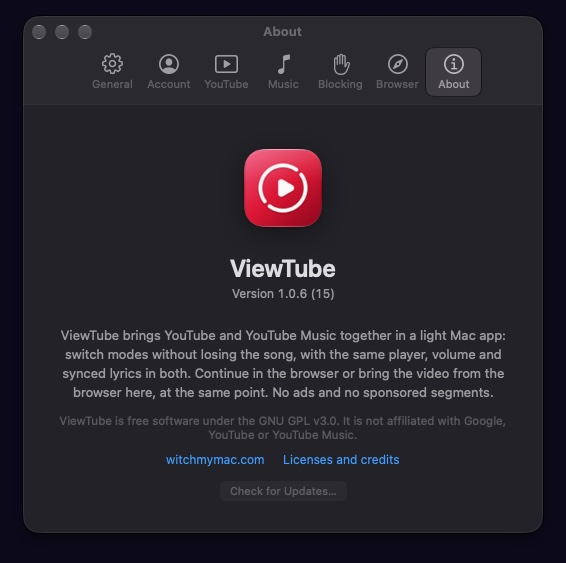
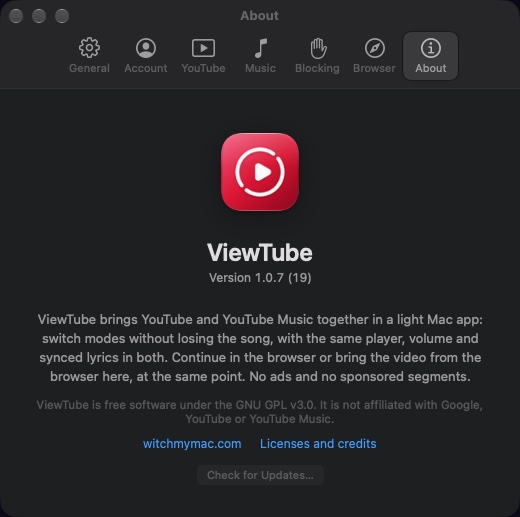
feat: new ViewTube screenshots (in-video player, Blender films, Josh Woodward)
- Retaken with ViewTube 1.0.7: in-video control card, new toolbar icons, English UI,
  signed out and muted. Films: Wing It!, Spring, Coffee Run and Caminandes 3 (Blender
  Studio, CC BY 4.0); music: "Release" by Josh Woodward (CC BY) with synced lyrics.
- Hero and home use the Wing It! watch page; new Music tab; narrow tab shows the stacked
  Music layout; Settings shots include the portrait zoom and hide-chat options.
- Updated sizes, captions, alts and credits with en/es/ru translations.

diff --git a/viewtube/strings.js b/viewtube/strings.js
@@ -9,7 +9,7 @@ window.WITCH_STRINGS = Object.freeze({
   "O YouTube e o YouTube Music num app nativo para o Mac. Acelere qualquer vídeo ou música até 3×, acompanhe a letra sincronizada até na tela cheia e troque de modo sem perder a faixa. Sem anúncios.": ["YouTube and YouTube Music in a native Mac app. Speed up any video or song to 3×, follow synced lyrics even in full screen, and switch modes without losing the track. No ads.", "YouTube y YouTube Music en una app nativa para Mac. Acelera cualquier video o canción hasta 3×, sigue la letra sincronizada incluso en pantalla completa y cambia de modo sin perder la pista. Sin anuncios.", "YouTube и YouTube Music в нативном приложении для Mac. Ускоряйте любое видео или песню до 3×, следите за синхронизированным текстом даже в полноэкранном режиме и переключайте режимы, не теряя трек. Без рекламы."],
   "macOS 14 Sonoma ou mais novo · Apple Silicon e Intel · Gratuito": ["macOS 14 Sonoma or later · Apple Silicon and Intel · Free", "macOS 14 Sonoma o posterior · Apple Silicon e Intel · Gratis", "macOS 14 Sonoma или новее · Apple Silicon и Intel · Бесплатно"],
   "Tela cheia imersiva do modo Music: a capa, o título e a letra sincronizada sobre a capa desfocada": ["Immersive full screen in Music mode: the cover, the title and the synced lyrics over the blurred cover", "Pantalla completa inmersiva del modo Music: la portada, el título y la letra sincronizada sobre la portada desenfocada", "Иммерсивный полноэкранный режим Music: обложка, название и синхронизированный текст на фоне размытой обложки"],
-  "Big Buck Bunny tocando a 3×, com o botão 3× na barra da janela": ["Big Buck Bunny playing at 3×, with the 3× button in the window’s toolbar", "Big Buck Bunny reproduciéndose a 3×, con el botón 3× en la barra de la ventana", "Big Buck Bunny на скорости 3× с кнопкой 3× на панели окна"],
+  "Coffee Run tocando a 3×, com o botão 3× na barra da janela": ["Coffee Run playing at 3×, with the 3× button in the window’s toolbar", "Coffee Run reproduciéndose a 3×, con el botón 3× en la barra de la ventana", "Coffee Run на скорости 3× с кнопкой 3× на панели окна"],
   "Mini player da barra de menus com a capa, o progresso e os controles": ["Menu bar mini player with the cover, progress and controls", "Mini reproductor de la barra de menús con la portada, el progreso y los controles", "Мини-плеер в строке меню с обложкой, прогрессом и кнопками"],
   "0,25–3×": ["0.25–3×", "0,25–3×", "0,25–3×"],
   "de velocidade, em 10 passos": ["speed, in 10 steps", "de velocidad, en 10 pasos", "скорость, 10 шагов"],
@@ -32,7 +32,7 @@ window.WITCH_STRINGS = Object.freeze({
   "Por atalho": ["From shortcuts", "Con atajos", "Через команды"],
   "nos Atalhos do macOS ou no Raycast.": ["in macOS Shortcuts or in Raycast.", "en Atajos de macOS o en Raycast.", "в Быстрых командах macOS или в Raycast."],
   "Transmissões ao vivo e anúncios ficam na velocidade normal.": ["Live streams and ads stay at normal speed.", "Las transmisiones en vivo y los anuncios se quedan en velocidad normal.", "Прямые трансляции и реклама идут с обычной скоростью."],
-  "Big Buck Bunny tocando a 3× no modo teatro": ["Big Buck Bunny playing at 3× in theater mode", "Big Buck Bunny reproduciéndose a 3× en modo teatro", "Big Buck Bunny на скорости 3× в режиме кинотеатра"],
+  "Coffee Run tocando a 3× no modo teatro": ["Coffee Run playing at 3× in theater mode", "Coffee Run reproduciéndose a 3× en modo teatro", "Coffee Run на скорости 3× в режиме кинотеатра"],
   "O botão da barra mostra a velocidade do modo atual.": ["The toolbar button shows the current mode’s speed.", "El botón de la barra muestra la velocidad del modo actual.", "Кнопка на панели показывает скорость текущего режима."],
   "Letras sincronizadas": ["Synced lyrics", "Letras sincronizadas", "Синхронизированные тексты"],
   "Cante junto, linha por linha.": ["Sing along, line by line.", "Canta junto, línea por línea.", "Подпевайте строка за строкой."],
@@ -45,7 +45,7 @@ window.WITCH_STRINGS = Object.freeze({
   ": uma linha longa demais diminui a fonte só naquela música, sem cortar.": [": a line that’s too long shrinks the font for that song only, without cutting it off.", ": una línea demasiado larga reduce la fuente solo en esa canción, sin cortarse.", ": если строка слишком длинная, шрифт уменьшается только для этой песни, и ничего не обрезается."],
   "No teatro e na janela estreita": ["In theater and narrow windows", "En el teatro y en la ventana estrecha", "В режиме кинотеатра и в узком окне"],
   ": a letra vira um bloco embaixo do player, no mesmo estilo.": [": the lyrics become a block under the player, in the same style.", ": la letra se convierte en un bloque debajo del reproductor, con el mismo estilo.", ": текст становится блоком под плеером в том же стиле."],
-  "Modo Music com a capa e o cartão de controles": ["Music mode with the cover and the control card", "Modo Music con la portada y la tarjeta de controles", "Режим Music с обложкой и карточкой управления"],
+  "Modo Music com a capa e o cartão de controles dentro do player": ["Music mode with the cover and the control card inside the player", "Modo Music con la portada y la tarjeta de controles dentro del reproductor", "Режим Music: обложка и карточка управления прямо в плеере"],
   "Coluna da letra com a linha atual acesa": ["Lyrics column with the current line lit up", "Columna de la letra con la línea actual iluminada", "Колонка с текстом, текущая строка подсвечена"],
   "Tela cheia imersiva": ["Immersive full screen", "Pantalla completa inmersiva", "Иммерсивный полный экран"],
   "Só a capa, a letra e a música.": ["Just the cover, the lyrics and the music.", "Solo la portada, la letra y la música.", "Только обложка, текст и музыка."],
@@ -67,14 +67,14 @@ window.WITCH_STRINGS = Object.freeze({
   "Teatro": ["Theater", "Teatro", "Кинотеатр"],
   "Janela estreita": ["Narrow window", "Ventana estrecha", "Узкое окно"],
   "Página do vídeo com as recomendações numa coluna fixa à direita": ["Watch page with the recommendations in a fixed column on the right", "Página del video con las recomendaciones en una columna fija a la derecha", "Страница видео с рекомендациями в закреплённой колонке справа"],
-  "Recomendações fixas à direita e descrição, comentários e relacionados em abas sob o player.": ["Recommendations fixed on the right, and description, comments and related videos in tabs under the player.", "Recomendaciones fijas a la derecha, y descripción, comentarios y relacionados en pestañas bajo el reproductor.", "Рекомендации закреплены справа, а описание, комментарии и похожие видео — во вкладках под плеером."],
+  "O cartão de controles aparece dentro do vídeo ao passar o mouse. As recomendações ficam fixas à direita e a descrição, os comentários e os relacionados, em abas sob o player.": ["The control card appears inside the video when you hover over it. Recommendations stay fixed on the right, and the description, comments and related videos sit in tabs under the player.", "La tarjeta de controles aparece dentro del video al pasar el ratón. Las recomendaciones quedan fijas a la derecha y la descripción, los comentarios y los relacionados, en pestañas bajo el reproductor.", "Карточка управления появляется прямо на видео при наведении мыши. Рекомендации закреплены справа, а описание, комментарии и похожие видео — во вкладках под плеером."],
   "Modo teatro: o vídeo ocupa a largura da janela": ["Theater mode: the video fills the window’s width", "Modo teatro: el video ocupa el ancho de la ventana", "Режим кинотеатра: видео на всю ширину окна"],
-  "Teatro: o vídeo na largura toda, com o mesmo cartão de controles embaixo.": ["Theater: the video at full width, with the same control card below.", "Teatro: el video a todo lo ancho, con la misma tarjeta de controles debajo.", "Кинотеатр: видео на всю ширину, под ним та же карточка управления."],
+  "Teatro: o vídeo na largura toda, com o mesmo cartão de controles dentro dele.": ["Theater: the video at full width, with the same control card inside it.", "Teatro: el video a todo lo ancho, con la misma tarjeta de controles dentro de él.", "Кинотеатр: видео на всю ширину, с той же карточкой управления прямо на нём."],
   "Janela estreita: o player em cima, ocupando a largura": ["Narrow window: the player on top, at full width", "Ventana estrecha: el reproductor arriba, a todo lo ancho", "Узкое окно: плеер сверху на всю ширину"],
   "Abaixo de 1024 px tudo se empilha: o player em cima, o \"A seguir\" num carrossel que dá para arrastar e as abas embaixo.": ["Below 1024 px everything stacks: the player on top, \"Up next\" in a carousel you can drag, and the tabs below.", "Por debajo de 1024 px todo se apila: el reproductor arriba, \"A continuación\" en un carrusel que se puede arrastrar y las pestañas abajo.", "Уже 1024 px всё выстраивается столбиком: плеер сверху, «Далее» — в карусели, которую можно перетаскивать, вкладки — внизу."],
   "Um player para os dois": ["One player for both", "Un reproductor para los dos", "Один плеер для обоих"],
   "Os mesmos controles nos dois modos.": ["The same controls in both modes.", "Los mismos controles en los dos modos.", "Одинаковые кнопки в обоих режимах."],
-  "O mesmo cartão de controles no YouTube e no Music: opções à esquerda, reprodução no meio e volume à direita. Volume, intensidade do som e qualidade valem para os dois modos.": ["The same control card in YouTube and Music: options on the left, playback in the middle and volume on the right. Volume, loudness and quality apply to both modes.", "La misma tarjeta de controles en YouTube y en Music: opciones a la izquierda, reproducción en el centro y volumen a la derecha. Volumen, intensidad del sonido y calidad valen para los dos modos.", "Одна и та же карточка управления в YouTube и Music: опции слева, воспроизведение в центре, громкость справа. Громкость, уровень звука и качество общие для обоих режимов."],
+  "O mesmo cartão de controles no YouTube e no Music, dentro do próprio vídeo: aparece ao passar o mouse e some sozinho. Opções à esquerda, reprodução no meio e volume à direita. Volume, intensidade do som e qualidade valem para os dois modos.": ["The same control card in YouTube and Music, right inside the video: it appears when you hover and hides on its own. Options on the left, playback in the middle and volume on the right. Volume, loudness and quality apply to both modes.", "La misma tarjeta de controles en YouTube y en Music, dentro del propio video: aparece al pasar el ratón y se oculta sola. Opciones a la izquierda, reproducción en el centro y volumen a la derecha. Volumen, intensidad del sonido y calidad valen para los dos modos.", "Одна и та же карточка управления в YouTube и Music — прямо на видео: появляется при наведении мыши и сама скрывается. Опции слева, воспроизведение в центре, громкость справа. Громкость, уровень звука и качество общие для обоих режимов."],
   "Mesma intensidade": ["The same loudness", "La misma intensidad", "Одинаковая громкость"],
   ": o app leva as duas páginas a −14 LUFS, e uma troca de modo não muda o volume.": [": the app brings both pages to −14 LUFS, so switching modes doesn’t change the volume.", ": la app lleva las dos páginas a −14 LUFS, y cambiar de modo no cambia el volumen.", ": приложение приводит обе страницы к −14 LUFS, поэтому смена режима не меняет громкость."],
   "Qualidade escolhida": ["Your chosen quality", "La calidad elegida", "Выбранное качество"],
@@ -105,9 +105,9 @@ window.WITCH_STRINGS = Object.freeze({
   "Navegador": ["Browser", "Navegador", "Браузер"],
   "Sobre": ["About", "Acerca de", "О программе"],
   "Ajustes, aba Geral": ["Settings, General tab", "Ajustes, pestaña General", "Настройки, вкладка «Основные»"],
-  "Abrir no último modo usado e retomar no mesmo ponto, barra compacta ou maior, continuar tocando com a janela fechada, mini player na barra de menus, qualidade do vídeo, teatro, retrato na tela cheia e interface limpa.": ["Open in the last mode used and resume at the same point, a compact or larger toolbar, keep playing with the window closed, the menu bar mini player, video quality, theater, portrait in full screen and a clean interface.", "Abrir en el último modo usado y retomar en el mismo punto, barra compacta o más grande, seguir sonando con la ventana cerrada, mini reproductor en la barra de menús, calidad del video, teatro, retrato en pantalla completa e interfaz limpia.", "Открытие в последнем режиме и продолжение с того же места, компактная или крупная панель, воспроизведение с закрытым окном, мини-плеер в строке меню, качество видео, кинотеатр, портрет в полноэкранном режиме и чистый интерфейс."],
-  "Ajustes, aba YouTube, com a velocidade em 2×": ["Settings, YouTube tab, with the speed at 2×", "Ajustes, pestaña YouTube, con la velocidad en 2×", "Настройки, вкладка YouTube, скорость 2×"],
-  "A velocidade de todo vídeo no modo YouTube, de 0,25× a 3×.": ["The speed for every video in YouTube mode, from 0.25× to 3×.", "La velocidad de cada video en el modo YouTube, de 0,25× a 3×.", "Скорость всех видео в режиме YouTube — от 0,25× до 3×."],
+  "Abrir no último modo usado e retomar no mesmo ponto, barra compacta ou maior, continuar tocando com a janela fechada, mini player na barra de menus, qualidade do vídeo, teatro, retrato na tela cheia com zoom e interface limpa.": ["Open in the last mode used and resume at the same point, a compact or larger toolbar, keep playing with the window closed, the menu bar mini player, video quality, theater, portrait in full screen with zoom and a clean interface.", "Abrir en el último modo usado y retomar en el mismo punto, barra compacta o más grande, seguir sonando con la ventana cerrada, mini reproductor en la barra de menús, calidad del video, teatro, retrato en pantalla completa con zoom e interfaz limpia.", "Открытие в последнем режиме и продолжение с того же места, компактная или крупная панель, воспроизведение с закрытым окном, мини-плеер в строке меню, качество видео, кинотеатр, портрет в полноэкранном режиме с масштабом и чистый интерфейс."],
+  "Ajustes, aba YouTube": ["Settings, YouTube tab", "Ajustes, pestaña YouTube", "Настройки, вкладка YouTube"],
+  "A velocidade de todo vídeo no modo YouTube, de 0,25× a 3×, e o chat ao vivo escondido na tela cheia.": ["The speed for every video in YouTube mode, from 0.25× to 3×, and the live chat hidden in full screen.", "La velocidad de cada video en modo YouTube, de 0,25× a 3×, y el chat en vivo oculto en pantalla completa.", "Скорость всех видео в режиме YouTube, от 0,25× до 3×, и скрытый чат трансляций в полноэкранном режиме."],
   "Ajustes, aba Music": ["Settings, Music tab", "Ajustes, pestaña Music", "Настройки, вкладка Music"],
   "A velocidade das músicas, o início personalizado (suas mais ouvidas, sucessos dos seus artistas e sugestões, só músicas), o modo Música, as letras sincronizadas e pular trechos sem música nos clipes.": ["Song speed, the personalized home (your most played, hits from your artists and suggestions, songs only), Song mode, synced lyrics and skipping non-music parts in music videos.", "La velocidad de las canciones, el inicio personalizado (lo más escuchado, éxitos de tus artistas y sugerencias, solo canciones), el modo Canción, las letras sincronizadas y saltar fragmentos sin música en los videoclips.", "Скорость песен, персональная главная (ваше самое прослушиваемое, хиты ваших исполнителей и рекомендации — только песни), режим «Песня», синхронизированные тексты и пропуск фрагментов без музыки в клипах."],
   "Ajustes, aba Bloqueios, com as categorias do SponsorBlock": ["Settings, Blocking tab, with the SponsorBlock categories", "Ajustes, pestaña Bloqueos, con las categorías de SponsorBlock", "Настройки, вкладка «Блокировка» с категориями SponsorBlock"],
@@ -147,5 +147,7 @@ window.WITCH_STRINGS = Object.freeze({
   "Aviso": ["Notice", "Aviso", "Примечание"],
   "Não é afiliado ao Google nem ao YouTube.": ["Not affiliated with Google or YouTube.", "No está afiliado a Google ni a YouTube.", "Не связано с Google и YouTube."],
   "Créditos das capturas": ["Screenshot credits", "Créditos de las capturas", "Источники скриншотов"],
-  "Big Buck Bunny e Cosmos Laundromat: Blender Foundation, CC BY. Música: “It’s a Long Way to Tipperary”, John McCormack, gravação de 1914, com letra de 1912 (domínio público). Áudio da janela estreita: gravação da Musopen. Capturas feitas sem conta e sem som.": ["Big Buck Bunny and Cosmos Laundromat: Blender Foundation, CC BY. Music: “It’s a Long Way to Tipperary”, John McCormack, 1914 recording, with 1912 lyrics (public domain). Narrow-window audio: Musopen recording. Screenshots taken signed out and muted.", "Big Buck Bunny y Cosmos Laundromat: Blender Foundation, CC BY. Música: “It’s a Long Way to Tipperary”, John McCormack, grabación de 1914, con letra de 1912 (dominio público). Audio de la ventana estrecha: grabación de Musopen. Capturas hechas sin cuenta y sin sonido.", "Big Buck Bunny и Cosmos Laundromat: Blender Foundation, CC BY. Музыка: «It’s a Long Way to Tipperary», Джон Маккормак, запись 1914 года, текст 1912 года (общественное достояние). Звук в узком окне: запись Musopen. Скриншоты сделаны без входа в аккаунт и без звука."],
+  "Filmes: Wing It!, Spring, Coffee Run e Caminandes 3: Llamigos, da Blender Studio, CC BY 4.0; as miniaturas na coluna de sugestões também são filmes abertos da Blender. Música: “Release”, de Josh Woodward (álbum Addressed to the Stars), CC BY, com a letra sincronizada que vem do próprio YouTube Music. Capturas feitas sem conta e sem som.": ["Films: Wing It!, Spring, Coffee Run and Caminandes 3: Llamigos by Blender Studio, CC BY 4.0; the thumbnails in the suggestions column are Blender open movies too. Music: “Release” by Josh Woodward (album Addressed to the Stars), CC BY, with the synced lyrics provided by YouTube Music itself. Screenshots taken signed out and muted.", "Películas: Wing It!, Spring, Coffee Run y Caminandes 3: Llamigos, de Blender Studio, CC BY 4.0; las miniaturas de la columna de sugerencias también son películas abiertas de Blender. Música: “Release”, de Josh Woodward (álbum Addressed to the Stars), CC BY, con la letra sincronizada del propio YouTube Music. Capturas hechas sin cuenta y sin sonido.", "Фильмы: Wing It!, Spring, Coffee Run и Caminandes 3: Llamigos от Blender Studio, CC BY 4.0; миниатюры в колонке рекомендаций — тоже открытые фильмы Blender. Музыка: «Release», Джош Вудворд (альбом Addressed to the Stars), CC BY, с синхронизированным текстом из самого YouTube Music. Скриншоты сделаны без входа в аккаунт и без звука."],
+  "Modo Music com a capa, a fila e a letra sincronizada numa coluna à direita": ["Music mode with the cover, the queue and synced lyrics in a column on the right", "Modo Music con la portada, la cola y la letra sincronizada en una columna a la derecha", "Режим Music: обложка, очередь и синхронизированный текст в колонке справа"],
+  "Music: a capa com o cartão dentro dela, a fila em grade e a letra sincronizada na coluna da direita.": ["Music: the cover with the card inside it, the queue in a grid and the synced lyrics in the right column.", "Music: la portada con la tarjeta dentro, la cola en cuadrícula y la letra sincronizada en la columna derecha.", "Music: обложка с карточкой управления, очередь сеткой и синхронизированный текст в правой колонке."],
 });

diff --git a/viewtube/index.html b/viewtube/index.html
@@ -9,7 +9,7 @@
 <meta property="og:description" content="YouTube e YouTube Music num app nativo para Mac: troca de modo na mesma faixa, letras sincronizadas e sem anúncios. Gratuito.">
 <meta property="og:type" content="website">
 <meta property="og:url" content="https://witchmymac.com/viewtube/">
-<meta property="og:image" content="https://witchmymac.com/assets/shots/viewtube/immersive.jpg">
+<meta property="og:image" content="https://witchmymac.com/assets/shots/viewtube/youtube-watch.jpg">
 <meta name="twitter:card" content="summary_large_image">
 <meta name="theme-color" content="#0b0a14">
 <link rel="icon" href="../assets/icons/favicon.png" type="image/png">
@@ -66,9 +66,8 @@
     <p class="req"><span data-version="viewtube" data-no-i18n></span> macOS 14 Sonoma ou mais novo · Apple Silicon e Intel · Gratuito</p>
 
     <div class="wu-stage vt-stage">
-      <figure class="wu-main"><button class="shot" type="button"><img src="../assets/shots/viewtube/immersive.jpg?v=202610281200" alt="Tela cheia imersiva do modo Music: a capa, o título e a letra sincronizada sobre a capa desfocada" width="1080" height="959"></button></figure>
-      <figure class="wu-float vt-float-speed"><button class="shot" type="button"><img src="../assets/shots/viewtube/speed-3x.jpg?v=202610281200" alt="Big Buck Bunny tocando a 3×, com o botão 3× na barra da janela" width="1080" height="645"></button></figure>
-      <figure class="wu-float vt-float-mini"><button class="shot" type="button"><img src="../assets/shots/viewtube/miniplayer.jpg?v=202610281200" alt="Mini player da barra de menus com a capa, o progresso e os controles" width="350" height="285"></button></figure>
+      <figure class="wu-main"><button class="shot" type="button"><img src="../assets/shots/viewtube/youtube-watch.jpg?v=202610261100" alt="Wing It! tocando no ViewTube, com o cartão de controles dentro do vídeo" width="1440" height="900"></button></figure>
+      <figure class="wu-float vt-float-mini"><button class="shot" type="button"><img src="../assets/shots/viewtube/miniplayer.jpg?v=202610261100" alt="Mini player da barra de menus com a capa, o progresso e os controles" width="304" height="239"></button></figure>
     </div>
 
     <div class="wu-stats">
@@ -97,11 +96,11 @@
         <p class="vt-note">Transmissões ao vivo e anúncios ficam na velocidade normal.</p>
       </div>
       <div class="wu-media vt-speed">
-        <figure><button class="shot" type="button"><img src="../assets/shots/viewtube/speed-3x.jpg?v=202610281200" alt="Big Buck Bunny tocando a 3× no modo teatro" loading="lazy" width="1080" height="645"></button></figure>
+        <figure><button class="shot" type="button"><img src="../assets/shots/viewtube/speed-3x.jpg?v=202610261100" alt="Coffee Run tocando a 3× no modo teatro" loading="lazy" width="1200" height="760"></button></figure>
         <div class="vt-pills" aria-hidden="true">
-          <img src="../assets/shots/viewtube/tb-1x.jpg?v=202610281200" alt="" loading="lazy" width="120" height="41">
-          <img src="../assets/shots/viewtube/tb-2x.jpg?v=202610281200" alt="" loading="lazy" width="120" height="41">
-          <img src="../assets/shots/viewtube/tb-3x.jpg?v=202610281200" alt="" loading="lazy" width="120" height="41">
+          <img src="../assets/shots/viewtube/tb-1x.jpg?v=202610261100" alt="" loading="lazy" width="120" height="41">
+          <img src="../assets/shots/viewtube/tb-2x.jpg?v=202610261100" alt="" loading="lazy" width="120" height="41">
+          <img src="../assets/shots/viewtube/tb-3x.jpg?v=202610261100" alt="" loading="lazy" width="120" height="41">
         </div>
         <p class="wu-cap">O botão da barra mostra a velocidade do modo atual.</p>
       </div>
@@ -123,8 +122,8 @@
         </ul>
       </div>
       <div class="wu-media vt-lyrics">
-        <figure class="vt-lyrics-cover"><button class="shot" type="button"><img src="../assets/shots/viewtube/music-cover.jpg?v=202610281200" alt="Modo Music com a capa e o cartão de controles" loading="lazy" width="730" height="570"></button></figure>
-        <figure class="vt-lyrics-col"><button class="shot" type="button"><img src="../assets/shots/viewtube/lyrics-column.jpg?v=202610281200" alt="Coluna da letra com a linha atual acesa" loading="lazy" width="335" height="640"></button></figure>
+        <figure class="vt-lyrics-cover"><button class="shot" type="button"><img src="../assets/shots/viewtube/music-cover.jpg?v=202610261100" alt="Modo Music com a capa e o cartão de controles dentro do player" loading="lazy" width="983" height="553"></button></figure>
+        <figure class="vt-lyrics-col"><button class="shot" type="button"><img src="../assets/shots/viewtube/lyrics-column.jpg?v=202610261100" alt="Coluna da letra com a linha atual acesa" loading="lazy" width="380" height="712"></button></figure>
       </div>
     </div>
   </section>
@@ -136,9 +135,9 @@
       <h2>Só a capa, a letra e a música.</h2>
       <p>Com a opção “Retrato na tela cheia” ligada, o botão de tela cheia do Music abre uma tela própria: a capa grande, o título, o artista e a letra sincronizada, sobre a própria capa desfocada, que desliza devagar ao fundo.</p>
     </div>
-    <figure class="vt-immersive"><button class="shot" type="button"><img src="../assets/shots/viewtube/immersive.jpg?v=202610281200" alt="Tela cheia imersiva com a linha atual da letra acesa" loading="lazy" width="1080" height="959"></button></figure>
+    <figure class="vt-immersive"><button class="shot" type="button"><img src="../assets/shots/viewtube/immersive.jpg?v=202610261100" alt="Tela cheia imersiva com a linha atual da letra acesa" loading="lazy" width="1280" height="843"></button></figure>
     <div class="vt-imm-notes">
-      <figure><button class="shot" type="button"><img src="../assets/shots/viewtube/immersive-player.jpg?v=202610281200" alt="Pílula de vidro com progresso, controles, avaliação e volume" loading="lazy" width="660" height="124"></button></figure>
+      <figure><button class="shot" type="button"><img src="../assets/shots/viewtube/immersive-player.jpg?v=202610261100" alt="Pílula de vidro com progresso, controles, avaliação e volume" loading="lazy" width="656" height="120"></button></figure>
       <ul class="wu-list">
         <li><b>Player de vidro</b> com progresso, Música | Vídeo, aleatório, repetir, avaliação e volume. Some depois de 3 s sem mexer o mouse, junto com o cursor.</li>
         <li><b>Clique na capa</b> para tocar ou pausar. Esc sai.</li>
@@ -155,17 +154,19 @@
       <p>O YouTube e o YouTube Music são o mesmo catálogo em duas abas que não conversam. No ViewTube, um clique no seletor leva o que está tocando para o outro modo, no mesmo segundo, tocando ou pausado. As duas páginas ficam vivas o tempo todo, então a troca é instantânea.</p>
     </div>
     <div class="vt-switch">
-      <figure><button class="shot" type="button"><img src="../assets/shots/viewtube/crop-switch.jpg?v=202610261800" alt="Seletor YouTube e Music no topo da janela" loading="lazy" width="520" height="41"></button><figcaption>O seletor no topo da janela, ou ⇧⌘M.</figcaption></figure>
+      <figure><button class="shot" type="button"><img src="../assets/shots/viewtube/crop-switch.jpg?v=202610261100" alt="Seletor YouTube e Music no topo da janela" loading="lazy" width="520" height="41"></button><figcaption>O seletor no topo da janela, ou ⇧⌘M.</figcaption></figure>
     </div>
     <div class="wu-tabset">
       <div class="wu-tabs" role="tablist" aria-label="Modos">
         <button type="button" role="tab" id="t-yt" aria-controls="p-yt">YouTube</button>
+        <button type="button" role="tab" id="t-music" aria-controls="p-music">Music</button>
         <button type="button" role="tab" id="t-theater" aria-controls="p-theater">Teatro</button>
         <button type="button" role="tab" id="t-narrow" aria-controls="p-narrow">Janela estreita</button>
       </div>
-      <div class="wu-panel" role="tabpanel" id="p-yt" aria-labelledby="t-yt"><figure><button class="shot" type="button"><img src="../assets/shots/viewtube/youtube-watch.jpg?v=202610261800" alt="Página do vídeo com as recomendações numa coluna fixa à direita" loading="lazy" width="1280" height="772"></button><figcaption class="wu-cap">Recomendações fixas à direita e descrição, comentários e relacionados em abas sob o player.</figcaption></figure></div>
-      <div class="wu-panel" role="tabpanel" id="p-theater" aria-labelledby="t-theater" hidden><figure><button class="shot" type="button"><img src="../assets/shots/viewtube/youtube-theater.jpg?v=202610261800" alt="Modo teatro: o vídeo ocupa a largura da janela" loading="lazy" width="1280" height="800"></button><figcaption class="wu-cap">Teatro: o vídeo na largura toda, com o mesmo cartão de controles embaixo.</figcaption></figure></div>
-      <div class="wu-panel" role="tabpanel" id="p-narrow" aria-labelledby="t-narrow" hidden><figure style="max-width:760px;margin:0 auto"><button class="shot" type="button"><img src="../assets/shots/viewtube/youtube-narrow.jpg?v=202610261800" alt="Janela estreita: o player em cima, ocupando a largura" loading="lazy" width="900" height="712"></button><figcaption class="wu-cap">Abaixo de 1024 px tudo se empilha: o player em cima, o "A seguir" num carrossel que dá para arrastar e as abas embaixo.</figcaption></figure></div>
+      <div class="wu-panel" role="tabpanel" id="p-yt" aria-labelledby="t-yt"><figure><button class="shot" type="button"><img src="../assets/shots/viewtube/youtube-watch.jpg?v=202610261100" alt="Página do vídeo com as recomendações numa coluna fixa à direita" loading="lazy" width="1440" height="900"></button><figcaption class="wu-cap">O cartão de controles aparece dentro do vídeo ao passar o mouse. As recomendações ficam fixas à direita e a descrição, os comentários e os relacionados, em abas sob o player.</figcaption></figure></div>
+      <div class="wu-panel" role="tabpanel" id="p-music" aria-labelledby="t-music" hidden><figure><button class="shot" type="button"><img src="../assets/shots/viewtube/music-wide.jpg?v=202610261100" alt="Modo Music com a capa, a fila e a letra sincronizada numa coluna à direita" loading="lazy" width="1440" height="900"></button><figcaption class="wu-cap">Music: a capa com o cartão dentro dela, a fila em grade e a letra sincronizada na coluna da direita.</figcaption></figure></div>
+      <div class="wu-panel" role="tabpanel" id="p-theater" aria-labelledby="t-theater" hidden><figure><button class="shot" type="button"><img src="../assets/shots/viewtube/youtube-theater.jpg?v=202610261100" alt="Modo teatro: o vídeo ocupa a largura da janela" loading="lazy" width="1440" height="900"></button><figcaption class="wu-cap">Teatro: o vídeo na largura toda, com o mesmo cartão de controles dentro dele.</figcaption></figure></div>
+      <div class="wu-panel" role="tabpanel" id="p-narrow" aria-labelledby="t-narrow" hidden><figure style="max-width:760px;margin:0 auto"><button class="shot" type="button"><img src="../assets/shots/viewtube/music-narrow.jpg?v=202610261100" alt="Janela estreita: o player em cima, ocupando a largura" loading="lazy" width="900" height="760"></button><figcaption class="wu-cap">Abaixo de 1024 px tudo se empilha: o player em cima, o "A seguir" num carrossel que dá para arrastar e as abas embaixo.</figcaption></figure></div>
     </div>
   </section>
 
@@ -175,7 +176,7 @@
       <div class="wu-copy">
         <p class="wu-kicker">Um player para os dois</p>
         <h2>Os mesmos controles nos dois modos.</h2>
-        <p>O mesmo cartão de controles no YouTube e no Music: opções à esquerda, reprodução no meio e volume à direita. Volume, intensidade do som e qualidade valem para os dois modos.</p>
+        <p>O mesmo cartão de controles no YouTube e no Music, dentro do próprio vídeo: aparece ao passar o mouse e some sozinho. Opções à esquerda, reprodução no meio e volume à direita. Volume, intensidade do som e qualidade valem para os dois modos.</p>
         <ul class="wu-list">
           <li><b>Mesma intensidade</b>: o app leva as duas páginas a −14 LUFS, e uma troca de modo não muda o volume.</li>
           <li><b>Qualidade escolhida</b> já no começo de cada faixa, de 360p a 4K ou a máxima disponível, sem recarregar.</li>
@@ -184,8 +185,8 @@
         </ul>
       </div>
       <div class="wu-media bc-rows">
-        <figure><button class="shot" type="button"><img src="../assets/shots/viewtube/crop-card.jpg?v=202610261800" alt="Cartão de controles no modo YouTube" loading="lazy" width="886" height="150"></button><figcaption>YouTube</figcaption></figure>
-        <figure><button class="shot" type="button"><img src="../assets/shots/viewtube/crop-music-card.jpg?v=202610261800" alt="Cartão de controles no modo Music, com o seletor Música e Vídeo" loading="lazy" width="640" height="150"></button><figcaption>Music</figcaption></figure>
+        <figure><button class="shot" type="button"><img src="../assets/shots/viewtube/crop-card.jpg?v=202610261100" alt="Cartão de controles no modo YouTube" loading="lazy" width="983" height="159"></button><figcaption>YouTube</figcaption></figure>
+        <figure><button class="shot" type="button"><img src="../assets/shots/viewtube/crop-music-card.jpg?v=202610261100" alt="Cartão de controles no modo Music, com o seletor Música e Vídeo" loading="lazy" width="983" height="159"></button><figcaption>Music</figcaption></figure>
       </div>
     </div>
   </section>
@@ -204,7 +205,7 @@
           <li><b>Continua tocando</b> com a janela fechada, e as teclas de mídia e a Central de Controle comandam o app.</li>
         </ul>
       </div>
-      <div class="wu-media"><figure class="vt-mini"><button class="shot" type="button"><img src="../assets/shots/viewtube/miniplayer.jpg?v=202610281200" alt="Mini player da barra de menus" loading="lazy" width="350" height="285"></button></figure></div>
+      <div class="wu-media"><figure class="vt-mini"><button class="shot" type="button"><img src="../assets/shots/viewtube/miniplayer.jpg?v=202610261100" alt="Mini player da barra de menus" loading="lazy" width="304" height="239"></button></figure></div>
     </div>
   </section>
 
@@ -224,12 +225,12 @@
         <button type="button" role="tab" id="t-s-browser" aria-controls="p-s-browser">Navegador</button>
         <button type="button" role="tab" id="t-s-about" aria-controls="p-s-about">Sobre</button>
       </div>
-      <div class="wu-panel vt-set" role="tabpanel" id="p-s-general" aria-labelledby="t-s-general"><figure><button class="shot" type="button"><img src="../assets/shots/viewtube/settings-general.jpg?v=202610281200" alt="Ajustes, aba Geral" loading="lazy" width="566" height="841"></button></figure><p class="vt-set-text">Abrir no último modo usado e retomar no mesmo ponto, barra compacta ou maior, continuar tocando com a janela fechada, mini player na barra de menus, qualidade do vídeo, teatro, retrato na tela cheia e interface limpa.</p></div>
-      <div class="wu-panel vt-set" role="tabpanel" id="p-s-youtube" aria-labelledby="t-s-youtube" hidden><figure><button class="shot" type="button"><img src="../assets/shots/viewtube/settings-youtube.jpg?v=202610281200" alt="Ajustes, aba YouTube, com a velocidade em 2×" loading="lazy" width="566" height="290"></button></figure><p class="vt-set-text">A velocidade de todo vídeo no modo YouTube, de 0,25× a 3×.</p></div>
-      <div class="wu-panel vt-set" role="tabpanel" id="p-s-music" aria-labelledby="t-s-music" hidden><figure><button class="shot" type="button"><img src="../assets/shots/viewtube/settings-music.jpg?v=202610281200" alt="Ajustes, aba Music" loading="lazy" width="566" height="561"></button></figure><p class="vt-set-text">A velocidade das músicas, o início personalizado (suas mais ouvidas, sucessos dos seus artistas e sugestões, só músicas), o modo Música, as letras sincronizadas e pular trechos sem música nos clipes.</p></div>
-      <div class="wu-panel vt-set" role="tabpanel" id="p-s-blocking" aria-labelledby="t-s-blocking" hidden><figure><button class="shot" type="button"><img src="../assets/shots/viewtube/settings-blocking.jpg?v=202610281200" alt="Ajustes, aba Bloqueios, com as categorias do SponsorBlock" loading="lazy" width="566" height="590"></button></figure><p class="vt-set-text">Bloquear e pular anúncios e escolher quais trechos o SponsorBlock pula: patrocínio, autopromoção, pedido de inscrição, introdução, encerramento, prévia, enrolação e trechos sem música. A consulta envia só um prefixo do código do vídeo.</p></div>
-      <div class="wu-panel vt-set" role="tabpanel" id="p-s-browser" aria-labelledby="t-s-browser" hidden><figure><button class="shot" type="button"><img src="../assets/shots/viewtube/settings-browser.jpg?v=202610281200" alt="Ajustes, aba Navegador, com o favorito para mandar vídeos ao app" loading="lazy" width="566" height="502"></button></figure><p class="vt-set-text">⇧⌘O abre o vídeo no navegador no mesmo ponto, e um favorito faz o caminho de volta: pausa no navegador e continua no ViewTube.</p></div>
-      <div class="wu-panel vt-set" role="tabpanel" id="p-s-about" aria-labelledby="t-s-about" hidden><figure><button class="shot" type="button"><img src="../assets/shots/viewtube/settings-about.jpg?v=202610281200" alt="Ajustes, aba Sobre" loading="lazy" width="566" height="563"></button></figure><p class="vt-set-text">Versão, licença, créditos e atualizações dentro do app.</p></div>
+      <div class="wu-panel vt-set" role="tabpanel" id="p-s-general" aria-labelledby="t-s-general"><figure><button class="shot" type="button"><img src="../assets/shots/viewtube/settings-general.jpg?v=202610261100" alt="Ajustes, aba Geral" loading="lazy" width="520" height="890"></button></figure><p class="vt-set-text">Abrir no último modo usado e retomar no mesmo ponto, barra compacta ou maior, continuar tocando com a janela fechada, mini player na barra de menus, qualidade do vídeo, teatro, retrato na tela cheia com zoom e interface limpa.</p></div>
+      <div class="wu-panel vt-set" role="tabpanel" id="p-s-youtube" aria-labelledby="t-s-youtube" hidden><figure><button class="shot" type="button"><img src="../assets/shots/viewtube/settings-youtube.jpg?v=202610261100" alt="Ajustes, aba YouTube" loading="lazy" width="520" height="297"></button></figure><p class="vt-set-text">A velocidade de todo vídeo no modo YouTube, de 0,25× a 3×, e o chat ao vivo escondido na tela cheia.</p></div>
+      <div class="wu-panel vt-set" role="tabpanel" id="p-s-music" aria-labelledby="t-s-music" hidden><figure><button class="shot" type="button"><img src="../assets/shots/viewtube/settings-music.jpg?v=202610261100" alt="Ajustes, aba Music" loading="lazy" width="520" height="515"></button></figure><p class="vt-set-text">A velocidade das músicas, o início personalizado (suas mais ouvidas, sucessos dos seus artistas e sugestões, só músicas), o modo Música, as letras sincronizadas e pular trechos sem música nos clipes.</p></div>
+      <div class="wu-panel vt-set" role="tabpanel" id="p-s-blocking" aria-labelledby="t-s-blocking" hidden><figure><button class="shot" type="button"><img src="../assets/shots/viewtube/settings-blocking.jpg?v=202610261100" alt="Ajustes, aba Bloqueios, com as categorias do SponsorBlock" loading="lazy" width="520" height="544"></button></figure><p class="vt-set-text">Bloquear e pular anúncios e escolher quais trechos o SponsorBlock pula: patrocínio, autopromoção, pedido de inscrição, introdução, encerramento, prévia, enrolação e trechos sem música. A consulta envia só um prefixo do código do vídeo.</p></div>
+      <div class="wu-panel vt-set" role="tabpanel" id="p-s-browser" aria-labelledby="t-s-browser" hidden><figure><button class="shot" type="button"><img src="../assets/shots/viewtube/settings-browser.jpg?v=202610261100" alt="Ajustes, aba Navegador, com o favorito para mandar vídeos ao app" loading="lazy" width="520" height="456"></button></figure><p class="vt-set-text">⇧⌘O abre o vídeo no navegador no mesmo ponto, e um favorito faz o caminho de volta: pausa no navegador e continua no ViewTube.</p></div>
+      <div class="wu-panel vt-set" role="tabpanel" id="p-s-about" aria-labelledby="t-s-about" hidden><figure><button class="shot" type="button"><img src="../assets/shots/viewtube/settings-about.jpg?v=202610261100" alt="Ajustes, aba Sobre" loading="lazy" width="520" height="517"></button></figure><p class="vt-set-text">Versão, licença, créditos e atualizações dentro do app.</p></div>
     </div>
   </section>
 
@@ -273,7 +274,7 @@
       <div><dt>Preço</dt><dd>Gratuito, sem anúncios e sem rastreamento</dd></div>
       <div><dt>Idioma</dt><dd>Menus do app em português; a janela de Ajustes também em inglês. Os sites seguem o idioma da conta.</dd></div>
       <div><dt>Aviso</dt><dd>Não é afiliado ao Google nem ao YouTube.</dd></div>
-      <div><dt>Créditos das capturas</dt><dd>Big Buck Bunny e Cosmos Laundromat: Blender Foundation, CC BY. Música: “It’s a Long Way to Tipperary”, John McCormack, gravação de 1914, com letra de 1912 (domínio público). Áudio da janela estreita: gravação da Musopen. Capturas feitas sem conta e sem som.</dd></div>
+      <div><dt>Créditos das capturas</dt><dd>Filmes: Wing It!, Spring, Coffee Run e Caminandes 3: Llamigos, da Blender Studio, CC BY 4.0; as miniaturas na coluna de sugestões também são filmes abertos da Blender. Música: “Release”, de Josh Woodward (álbum Addressed to the Stars), CC BY, com a letra sincronizada que vem do próprio YouTube Music. Capturas feitas sem conta e sem som.</dd></div>
     </dl>
   </section>
 </main>

diff --git a/i18n-strings.js b/i18n-strings.js
@@ -710,8 +710,8 @@ window.WITCH_STRINGS = Object.freeze({
   "Do vídeo para a música e de volta no mesmo segundo, com o mesmo player, volume e intensidade nos dois modos.": ["From video to music and back at the same second, with the same player, volume and loudness in both modes.", "Del video a la música y de vuelta en el mismo segundo, con el mismo reproductor, volumen e intensidad en los dos modos.", "От видео к музыке и обратно с той же секунды — с тем же плеером, громкостью и уровнем звука в обоих режимах."],
   "Bloqueio de anúncios e SponsorBlock com oito tipos de trecho para pular.": ["Ad blocking and SponsorBlock with eight kinds of segment to skip.", "Bloqueo de anuncios y SponsorBlock con ocho tipos de fragmento para saltar.", "Блокировка рекламы и SponsorBlock с восемью типами фрагментов для пропуска."],
   "Mini player na barra de menus, teclas de mídia, atalhos, controle por URL e vídeos que passam do navegador para o app e de volta.": ["A menu bar mini player, media keys, shortcuts, URL control, and videos that move from the browser to the app and back.", "Mini reproductor en la barra de menús, teclas multimedia, atajos, control por URL y videos que pasan del navegador a la app y de vuelta.", "Мини-плеер в строке меню, медиаклавиши, сочетания клавиш, управление через URL и видео, которые переходят из браузера в приложение и обратно."],
-  "Tela cheia imersiva do modo Music com a letra sincronizada": ["Immersive full screen in Music mode with synced lyrics", "Pantalla completa inmersiva del modo Music con la letra sincronizada", "Иммерсивный полноэкранный режим Music с синхронизированным текстом"],
-  "Big Buck Bunny tocando a 3×": ["Big Buck Bunny playing at 3×", "Big Buck Bunny reproduciéndose a 3×", "Big Buck Bunny на скорости 3×"],
+  "Wing It! tocando no ViewTube, com o cartão de controles dentro do vídeo": ["Wing It! playing in ViewTube, with the control card inside the video", "Wing It! reproduciéndose en ViewTube, con la tarjeta de controles dentro del video", "Wing It! в ViewTube с карточкой управления прямо на видео"],
+  "Modo Music com a capa e a letra sincronizada": ["Music mode with the cover and synced lyrics", "Modo Music con la portada y la letra sincronizada", "Режим Music с обложкой и синхронизированным текстом"],
   "Velocidade até 3× que vale para tudo, letras sincronizadas até em tela cheia e troca de modo sem perder a música, sem anúncios.": ["Up to 3× speed for everything, synced lyrics even in full screen, and mode switching without losing the song, with no ads.", "Velocidad de hasta 3× para todo, letras sincronizadas incluso en pantalla completa y cambio de modo sin perder la canción, sin anuncios.", "Скорость до 3× для всего, синхронизированные тексты даже в полноэкранном режиме и смена режима без потери песни — без рекламы."],
   "Ferramentas leves e bonitas que fazem o seu Mac trabalhar do seu jeito. Sem assinatura, sem anúncios, sem rastreamento. Baixe, arraste para Aplicativos e pronto.": ["Light, good-looking tools that make your Mac work your way. No subscription, no ads, no tracking. Download, drag to Applications and you're done.", "Herramientas ligeras y bonitas que hacen que tu Mac trabaje a tu manera. Sin suscripción, sin anuncios, sin rastreo. Descarga, arrastra a Aplicaciones y listo.", "Лёгкие и красивые инструменты, которые заставляют ваш Mac работать по-вашему. Без подписки, без рекламы, без слежки. Скачайте, перетащите в «Программы» — и готово."],
   "Ver mais apps": ["Show more apps", "Ver más apps", "Показать больше программ"],

diff --git a/index.html b/index.html
@@ -223,8 +223,8 @@
         </div>
       </div>
       <div class="shots stacked">
-        <button class="shot shot-main" type="button"><img src="assets/shots/viewtube/immersive.jpg?v=202610271000" alt="Tela cheia imersiva do modo Music com a letra sincronizada" loading="lazy" width="1080" height="959"></button>
-        <button class="shot shot-sub wide-shot" type="button"><img src="assets/shots/viewtube/speed-3x.jpg?v=202610271000" alt="Big Buck Bunny tocando a 3×" loading="lazy" width="1080" height="645"></button>
+        <button class="shot shot-main" type="button"><img src="assets/shots/viewtube/youtube-watch.jpg?v=202610261100" alt="Wing It! tocando no ViewTube, com o cartão de controles dentro do vídeo" loading="lazy" width="1440" height="900"></button>
+        <button class="shot shot-sub wide-shot" type="button"><img src="assets/shots/viewtube/music-wide.jpg?v=202610261100" alt="Modo Music com a capa e a letra sincronizada" loading="lazy" width="1440" height="900"></button>
       </div>
     </article>
 
